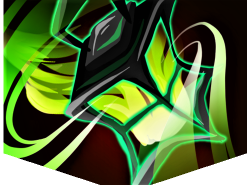
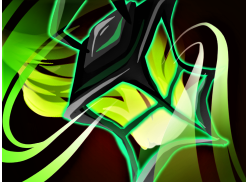
More bug fixes and a recrop

diff --git a/src/main/java/collector/patches/ExtraDeckButtonPatches/TopPanelExtraDeck.java b/src/main/java/collector/patches/ExtraDeckButtonPatches/TopPanelExtraDeck.java
@@ -60,6 +60,9 @@ public class TopPanelExtraDeck extends TopPanelItem {
 
     @Override
     public boolean isClickable() {
+        if (!AbstractDungeon.player.chosenClass.equals(CollectorChar.Enums.THE_COLLECTOR)) {
+            return false;
+        }
         return !AbstractDungeon.isScreenUp || (validScreens.contains(AbstractDungeon.screen) && !(AbstractDungeon.previousScreen == GRID || AbstractDungeon.previousScreen == BOSS_REWARD)) || isActive;
     }
 

diff --git a/src/main/java/collector/CollectorMod.java b/src/main/java/collector/CollectorMod.java
@@ -161,7 +161,7 @@ public class CollectorMod implements
         BaseMod.addRelic(new Incense(), RelicType.SHARED);
         BaseMod.addRelic(new Bagpipes(), RelicType.SHARED);
         BaseMod.addRelic(new FuelCanister(), RelicType.SHARED);
-        //BaseMod.addRelic(new ForbiddenFruit(), RelicType.SHARED);
+        BaseMod.addRelic(new ForbiddenFruit(), RelicType.SHARED);
         BaseMod.addRelic(new RoughDiamond(), RelicType.SHARED);
     }
 

diff --git a/src/main/java/collector/cards/Torchbearer.java b/src/main/java/collector/cards/Torchbearer.java
@@ -16,6 +16,7 @@ public class Torchbearer extends AbstractCollectorCard {
     public Torchbearer() {
         super(ID, 1, CardType.SKILL, CardRarity.COMMON, CardTarget.SELF);
         baseMagicNumber = magicNumber = 6;
+        exhaust = true;
     }
 
     public void use(AbstractPlayer p, AbstractMonster m) {

diff --git a/src/main/java/collector/powers/StrengthOverTurnsPower.java b/src/main/java/collector/powers/StrengthOverTurnsPower.java
@@ -28,6 +28,7 @@ public class StrengthOverTurnsPower extends AbstractCollectorPower implements No
         if (duration == 0) {
             atb(new RemoveSpecificPowerAction(owner, owner, this));
         }
+        updateDescription();
     }
 
     @Override
